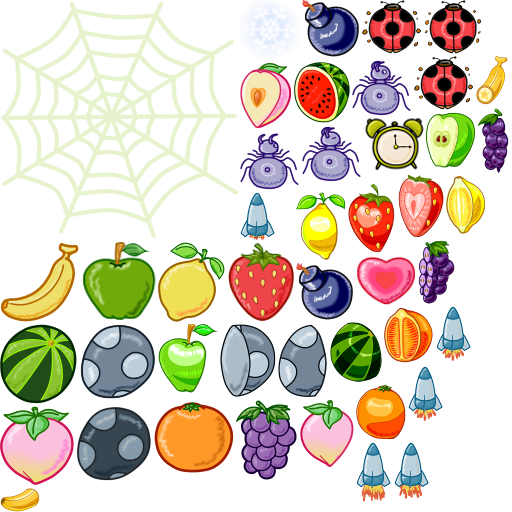
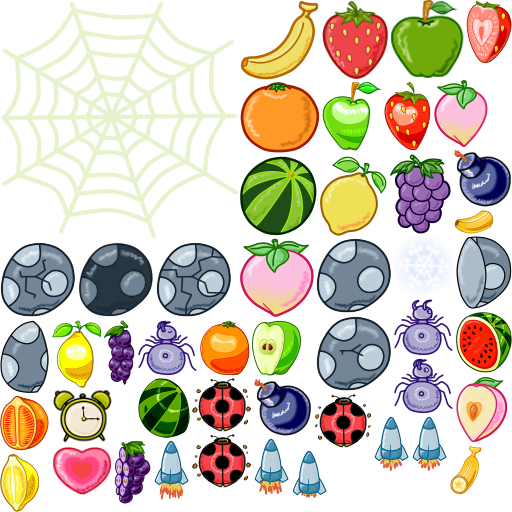
liuming

diff --git a/IGG003/SpriteBox.m b/IGG003/SpriteBox.m
@@ -111,12 +111,30 @@
 {
     if (self.bType == eGbt99 &&self.sCount == 0) {
         self.sCount = 1;
-        CCSprite *newSprite = [CCSprite spriteWithSpriteFrameName:@"99-s.png"];
-        [self setTexture:newSprite.texture];
-        [self setTextureRect:newSprite.textureRect];
+        
+        // 石头破碎的动画
+        CCSpriteFrameCache *cache = [CCSpriteFrameCache sharedSpriteFrameCache];
+        NSMutableArray *frames = [NSMutableArray arrayWithCapacity:4];
+        // 构造每一个帧的实际图像数据
+        for (int i = 1; i <= 4; i++) {
+            CCSpriteFrame *frame = [cache spriteFrameByName:[NSString stringWithFormat:@"99-s-%d.png", i]];
+            [frames addObject:frame];
+        }
+        CCAnimate *animation = [CCAnimate actionWithAnimation:[CCAnimation animationWithFrames:frames delay:0.08*fTimeRate]];
+        id changeSTexture = [CCCallFuncN actionWithTarget:self selector:@selector(changeSTexture)];
+        [self runAction:[CCSequence actions:animation,changeSTexture, nil]];
+
     }else if (self.bType == eGbt99 && self.sCount == 1) {
         self.sCount = 2;
     }
+}
+
+// 改变石头状态
+-(void)changeSTexture
+{
+    CCSprite *newSprite = [CCSprite spriteWithSpriteFrameName:@"99-s-4.png"];
+    [self setTexture:newSprite.texture];
+    [self setTextureRect:newSprite.textureRect];
 }
 
 -(MxPoint)setToolByType:(GameToolType)type
